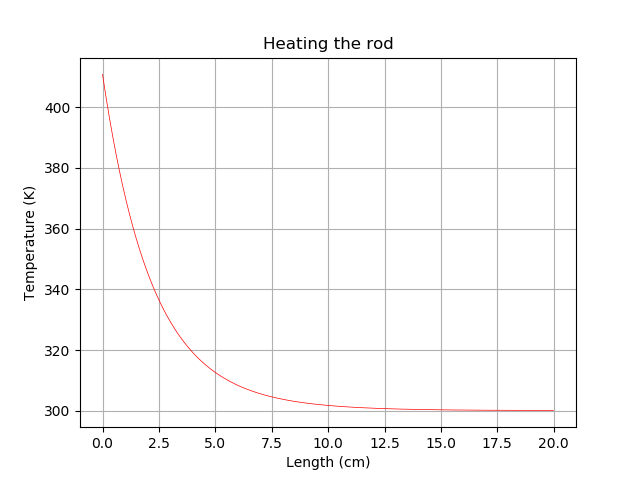
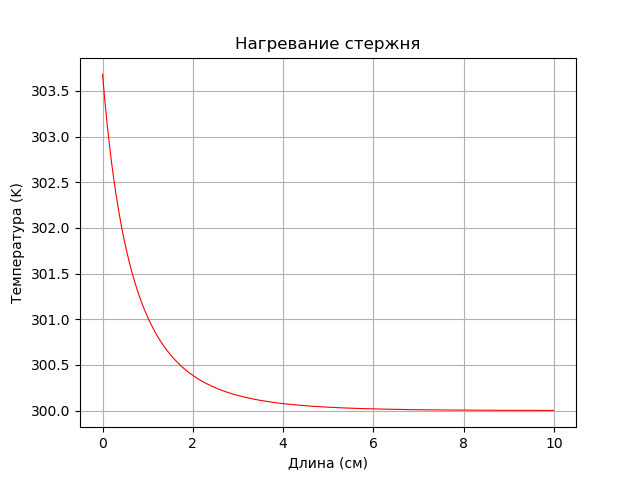
temp change done

diff --git a/temperature_change/temperature_calc.py b/temperature_change/temperature_calc.py
@@ -1,13 +1,11 @@
 from data_getter import Data
-from method import thomas_algorithm
-from numpy import arange
+import numpy as np
 import matplotlib.pyplot as plt
-
-#d=Data()
 
 
 def left_boundary_conditions(d):
-    X_half = d.Xn_plus_half(d.x0)
+    X_half = d.Kappa_plus_half(d.x0)
+
     p1 = d.p(d.x0 + d.h)
     f1 = d.f(d.x0 + d.h)
 
@@ -23,67 +21,79 @@ def left_boundary_conditions(d):
     return K0, M0, P0
 
 
-def right__boundary_conditions(d):
-    X_half = d.Xn_minus_half(d.l)
+def right_boundary_conditions(d):
+    X_half = d.Kappa_minus_half(d.l)
 
     pN = d.p(d.l)
     pN1 = d.p(d.l - d.h)
+
     fN = d.f(d.l)
-    fN1 = (2 * d.alpha(d.l - d.h)) / d.R * d.Tenv
+    fN1 = (2 * d.alpha(d.l - d.h)) / d.R * d.Te
 
     KN = - (X_half + d.alphaN * d.h) / d.h - d.h * (5 * pN + pN1) / 16
     MN = X_half / d.h - d.h * (pN + pN1) / 16
-    PN = - d.alphaN * d.Tenv - d.h * (3 * fN + fN1) / 8
+    PN = - d.alphaN * d.Te - d.h * (3 * fN + fN1) / 8
 
     return KN, MN, PN
 
 
-def calc_coefficients(d):
-    A = []
+def calc_coefficients(data):
+    A = []#e.g. C
     B = []
-    C = []
-    D = []
+    C = []#e.g. A
+    D = []#e.g. F
 
-    for i in arange(d.x0, d.l, d.h):
-        An = d.Xn_minus_half(i) / d.h
-        Cn = d.Xn_plus_half(i) / d.h
-        Bn = An + Cn + d.p(i) * d.h
-        Dn = d.f(i) * d.h
+    for i in np.arange(data.x0, data.l, data.h):
+        An = data.Kappa_minus_half(i) / data.h
+        Cn = data.Kappa_plus_half(i) / data.h
+        Bn = An + Cn + data.p(i) * data.h
+        Dn = data.f(i) * data.h
 
-        A.append(An)
+        A.append(An) 
         B.append(Bn)
-        C.append(Cn)
-        D.append(Dn)
+        C.append(Cn) 
+        D.append(Dn) 
 
     return A, B, C, D
 
 
+def calc_T(A, B, C, D, K0, M0, P0, KN, MN, PN):  
+
+    xi = [None, - M0 / K0]
+    eta = [None, P0 / K0]
+
+    # Прямой проход
+    for i in range(1, len(A)):
+        x = C[i] / (B[i] - A[i] * xi[i])
+        e = (D[i] + A[i] * eta[i]) / (B[i] - A[i] * xi[i])
+
+        xi.append(x)
+        eta.append(e)
+
+    # Обратный проход
+    ys = [(PN - MN * eta[-1]) / (KN + MN * xi[-1])]
+
+    for i in range(len(A) - 2, -1, -1):
+        y_i = xi[i + 1] *  ys[0] + eta[i + 1]
+
+        ys.insert(0, y_i)
+
+    return ys
+
+
 def main_proc(data):
     a, b, c, d = calc_coefficients(data)
-    # print(a)
-    # print(b)
-    # print(c)
-    # print(d)
-
     k0, m0, p0 = left_boundary_conditions(data)
-    # print(k0)
-    # print(m0)
-    # print(p0)
+    kN, mN, pN = right_boundary_conditions(data)
+    
+    T = calc_T(a, b, c, d, k0, m0, p0, kN, mN, pN)
+    x = np.arange(data.x0, data.l, data.h)
 
-    kN, mN, pN = right__boundary_conditions(data)
-    # print(kN)
-    # print(mN)
-    # print(pN)
-
-    T = thomas_algorithm(a, b, c, d, k0, m0, p0, kN, mN, pN)
-    print(T)
-    x = arange(data.x0, data.l, data.h)
-
-    plt.title('Heating the rod')
+    plt.title('Нагревание стержня')
     plt.grid(True)
-    plt.plot(x, T, 'r', linewidth=0.5)
-    plt.xlabel("Length (cm)")
-    plt.ylabel("Temperature (K)")
+    plt.plot(x, T, 'r', linewidth=0.8)
+    plt.xlabel("Длина (см)")
+    plt.ylabel("Температура (K)")
 
     plt.savefig("plot.png")
 

diff --git a/temperature_change/frontend.py b/temperature_change/frontend.py
@@ -3,11 +3,9 @@ import functools
 import itertools
 
 import numpy as np
-import matplotlib.pyplot as plt
 
 from PyQt5.QtWidgets import QApplication, QMainWindow,  QPushButton,  QLabel, QErrorMessage, QMessageBox, QTableWidget, QTableWidgetItem, QLineEdit
-from PyQt5.QtCore import  QSize, QRegExp
-from PyQt5.QtGui import QRegExpValidator
+from PyQt5.QtCore import  QSize
 
 from data_getter import Data
 import temperature_calc
@@ -51,10 +49,10 @@ class MyWindow(QMainWindow):
         input_row(row_increment(), "Радиус стержня", "R", "см", 0.5)
         input_row(row_increment(), "Окр. темп-ра", "Te", "Кельвин", 300)
         input_row(row_increment(), "Внешний поток", "F", "В/(см2*К)", 100)
-        input_row(row_increment(), "Coefficient of thermal conductivity at the beginning", "k0", "В/(см*К)", 0.2)
-        input_row(row_increment(), "Coefficient of thermal conductivity at the end", "kN", "В/(см*К)", 0.5)
-        input_row(row_increment(), "Heat transfer coefficient at the beginning", "α0", "В/(см2*К)", 1e-2)
-        input_row(row_increment(), "Heat transfer coefficient at the end", "αN", "В/(см2*К)", 9e-3)
+        input_row(row_increment(), "Коэф. теплопров. нач", "k0", "В/(см*К)", 0.1)
+        input_row(row_increment(), "Коэф. теплопров. кон", "kN", "В/(см*К)", 0.05)
+        input_row(row_increment(), "Коэф. теплоотд. нач.", "α0", "В/(см2*К)", 10e-2)
+        input_row(row_increment(), "Коэф. теплоотд. кон.", "αN", "В/(см2*К)", 0.5e-2)
         input_row(row_increment(), "Шаг", "h", "см", 1e-2)
 
 
@@ -92,7 +90,7 @@ class MyWindow(QMainWindow):
             data= Data(
                 l=self.read_cells(row_increment()),
                 R=self.read_cells(row_increment()),
-                Tenv=self.read_cells(row_increment()),
+                Te=self.read_cells(row_increment()),
                 F0=self.read_cells(row_increment()),
                 k0=self.read_cells(row_increment()),
                 kN=self.read_cells(row_increment()),
@@ -106,13 +104,6 @@ class MyWindow(QMainWindow):
             return
 
         temperature_calc.main_proc(data)
-        # plt.plot(times,UCs)
-        # plt.scatter(times, UCs)
-        # plt.ylabel("Напряжение - вольт")
-        # plt.xlabel("Время - секунд")
-        # plt.show()
-
-
 
 
 app = QApplication(sys.argv)

diff --git a/temperature_change/data_getter.py b/temperature_change/data_getter.py
@@ -1,20 +1,10 @@
 class Data:
 
-    def __init__(
-        self,
-        l = 10,           # Length of the rod (cm)
-        R = 0.5,          # Radius of the rod (cm)
-        Tenv = 300,       # Ambient temperature (K)
-        F0 = 100,        # Heat flux density (W / (cm^2 * K))
-        k0 = 0.2,         # Coefficient of thermal conductivity at the beginning of the rod (W / (cm * K))
-        kN = 0.5,         # Coefficient of thermal conductivity at the end of the rod (W / (cm * K))
-        alpha0 = 1e-2,    # Heat transfer coefficient at the beginning of the rod (W / (cm^2 * K))
-        alphaN = 9e-3,  # Heat transfer coefficient at the end of the rod (W / (cm^2 * K))
-        h=1e-2):
+    def __init__(self, l, R, Te, F0, k0, kN, alpha0, alphaN, h=1e-2):
 
         self.l=l
         self.R=R
-        self.Tenv=Tenv
+        self.Te=Te
         self.F0=F0
         self.k0=k0
         self.kN=kN
@@ -23,9 +13,10 @@ class Data:
         self.h=h
 
         self.x0=0
-        #h = 1e-2
+
         self.bk = (self.kN * self.l) / (self.kN - self.k0)
         self.ak = - self.k0 * self.bk
+        
         self.b_alpha = (self.alphaN * self.l) / (self.alphaN - self.alpha0)
         self.a_alpha = - self.alpha0 * self.b_alpha
 
@@ -36,15 +27,15 @@ class Data:
     def alpha(self, x):
         return self.a_alpha / (x - self.b_alpha)
 
-    def Xn_plus_half(self, x):
-        return (2 * self.k(x) * self.k(x + self.h)) / (self.k(x) + self.k(x + self.h))
+    def Kappa_plus_half(self, x):
+        return (self.k(x)+self.k(x+self.h))/2
 
-    def Xn_minus_half(self, x):
-        return (2 * self.k(x) * self.k(x - self.h)) / (self.k(x) + self.k(x - self.h))
+    def Kappa_minus_half(self, x):
+        return (self.k(x)+self.k(x-self.h))/2
 
     def p(self, x):
         return 2 * self.alpha(x) / self.R
 
     def f(self, x):
-        return 2 * self.alpha(x) / self.R * self.Tenv
+        return 2 * self.alpha(x) / self.R * self.Te
 
